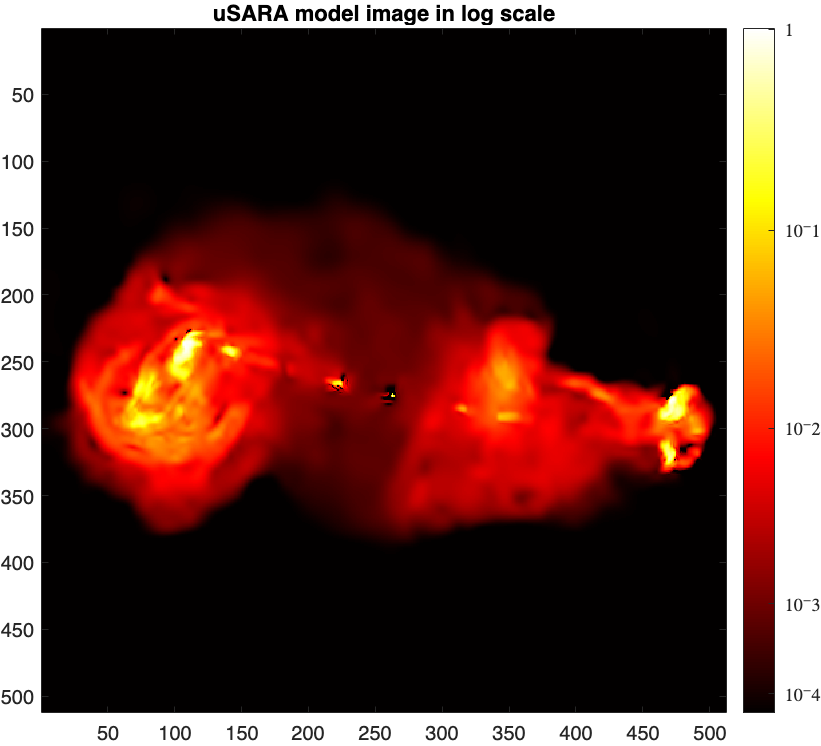
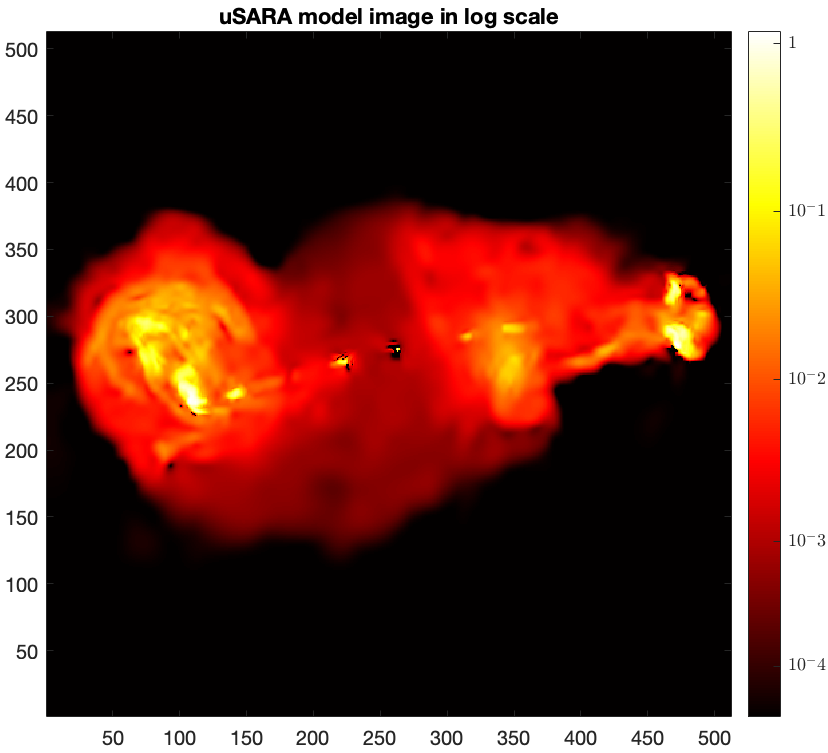
update

diff --git a/uSARA_tutorial.html b/uSARA_tutorial.html
@@ -153,24 +153,29 @@
             \(\boldsymbol{\bar{x}}_{\textrm{max}}=1\) and a dynamic range is approximately \(a=10^4\).
         </p>
 
+    <div class="center-wrapper">
     <div class="code-container">
         <div class="copy-btn" onclick="copyText(this)">
             <img src="images/copy.png" class="copy_logo">
         </div>
         <pre>
-<span class="variable">rlog</span> = @(<span class="variable">x</span>, <span class="variable">a</span>) <span class="function">log10</span>(<span class="variable">a</span> .* <span class="variable">x</span> + <span class="number">1</span>) ./ <span class="function">log10</span>(<span class="variable">a</span>); <span class="comment">% logarithmic mapping parameterised by the dynamic range `a`</span>
-<span class="variable">img_gdth_log</span> = <span class="variable">rlog</span>(<span class="variable">img_gdth</span>, <span class="number">2500</span>); <span class="comment">% `a`=2500 in this case</span>
+<span class="comment">% Define the logarithmic mapping function</span>
+<span class="variable">rlog</span> = <span class="keyword">@</span>(<span class="variable">x</span>, <span class="variable">a</span>) <span class="variable">max</span>(<span class="variable">x</span>(<span class="keyword">:</span>)) .* <span class="function">log10</span>(<span class="variable">a</span> .* <span class="variable">x</span> ./ <span class="variable">max</span>(<span class="variable">x</span>(<span class="keyword">:</span>)) + <span class="number">1</span>) ./ <span class="function">log10</span>(<span class="variable">a</span>); <span class="comment">% logarithmic mapping parameterised by the dynamic range `a`</span>
+<span class="variable">dynamic_range</span> = <span class="number">1e4</span>;
+<span class="variable">img_gdth_log</span> = <span class="variable">rlog</span>(<span class="variable">img_gdth</span>, <span class="variable">dynamic_range</span>);
 <span class="function">figure</span>
 <span class="function">imagesc</span>(<span class="variable">img_gdth_log</span>), <span class="function">colormap</span>(<span class="string">'hot'</span>)
-<span class="function">axis image</span>
+<span class="function">set</span>(<span class="function">gca</span>,<span class="string">'YDir'</span>,<span class="string">'normal'</span>)
+<span class="function">axis</span> <span class="function">image</span>
 <span class="variable">cb</span> = <span class="function">colorbar</span>;
-<span class="variable">ticks</span> = <span class="variable">rlog</span>([<span class="number">1e-4</span>, <span class="number">1e-3</span>, <span class="number">1e-2</span>, <span class="number">1e-1</span>, <span class="number">1.0</span>], <span class="number">2500</span>);
+<span class="variable">ticks</span> = <span class="variable">rlog</span>([<span class="number">1e-4</span>, <span class="number">1e-3</span>, <span class="number">1e-2</span>, <span class="number">1e-1</span>, <span class="number">1.0</span>], <span class="variable">dynamic_range</span>);
 <span class="variable">ticks</span>(<span class="function">end</span>) = <span class="number">1</span>;
 <span class="variable">cb</span>.<span class="variable">Ticks</span> = <span class="variable">ticks</span>;
 <span class="variable">cb</span>.<span class="variable">TickLabels</span> = {<span class="string">"$10^{-4}$"</span>, <span class="string">"$10^{-3}$"</span>, <span class="string">"$10^{-2}$"</span>, <span class="string">"$10^{-1}$"</span>, <span class="string">"$1$"</span>};
 <span class="variable">cb</span>.<span class="variable">TickLabelInterpreter</span> = <span class="string">'latex'</span>;
 <span class="function">title</span>(<span class="string">"Ground truth in log scale"</span>)</pre>
     </div>
+</div>
 
             <div class="tutorial_container">
             <figure class="image-3d">
@@ -329,17 +334,20 @@
                 </ul>
 
 
+    <div class="center-wrapper">
     <div class="code-container">
         <div class="copy-btn" onclick="copyText(this)">
             <img src="images/copy.png" class="copy_logo">
         </div>
         <pre>
 <span class="comment">% visualise both psf and dirty image</span>
-<span class="variable">dirty</span> = <span class="function">fitsread</span>(<span class="string">"./results/3c353/dirty.fits"</span>);
+<span class="variable">dirty</span> <span class="operator">=</span> <span class="function">fitsread</span>(<span class="string">"./results/3c353/dirty.fits"</span>);
 <span class="function">figure</span>
-<span class="function">imagesc</span>(<span class="variable">dirty</span>), <span class="function">axis square</span>
+<span class="function">imagesc</span>(<span class="variable">dirty</span>), <span class="function">axis</span> <span class="function">square</span>
+<span class="function">set</span>(<span class="function">gca</span>,<span class="string">'YDir'</span>,<span class="string">'normal'</span>)
 <span class="function">colormap</span>(<span class="string">'hot'</span>), <span class="function">title</span>(<span class="string">"dirty image"</span>)</pre>
     </div>
+</div>
 
 
             <div class="tutorial_container">
@@ -350,17 +358,20 @@
 
 
 
+    <div class="center-wrapper">
     <div class="code-container">
         <div class="copy-btn" onclick="copyText(this)">
             <img src="images/copy.png" class="copy_logo">
         </div>
         <pre>
-<span class="variable">psf</span> = <span class="function">fitsread</span>(<span class="string">"./results/3c353/psf.fits"</span>);
+<span class="variable">psf</span> <span class="operator">=</span> <span class="function">fitsread</span>(<span class="string">"./results/3c353/psf.fits"</span>);
 <span class="function">figure</span>
-<span class="function">imagesc</span>(<span class="variable">psf</span>), <span class="function">axis square</span>,
-<span class="function">colormap</span>(<span class="string">'hot'</span>), <span class="function">title</span>(<span class="string">"psf"</span>)
-        </pre>
+<span class="function">imagesc</span>(<span class="variable">psf</span>), <span class="function">axis</span> <span class="function">square</span>
+<span class="function">set</span>(<span class="function">gca</span>,<span class="string">'YDir'</span>,<span class="string">'normal'</span>)
+<span class="function">colormap</span>(<span class="string">'hot'</span>)
+<span class="function">title</span>(<span class="string">"point spread function"</span>)</pre>
     </div>
+</div>
 
 
             <div class="tutorial_container">
@@ -412,7 +423,7 @@
             </p>
 
             <p>
-                Note that in [3], we considered a slightly different mapping of the logarithmic scale that is parameterised by the maximum intensity value \(\bar{x}_{\text{max}}\)
+                Note that in [4], we considered a slightly different mapping of the logarithmic scale that is parameterised by the maximum intensity value \(\bar{x}_{\text{max}}\)
                 of the ground truth and the estimate of the target dynamic range defined as \(\hat{a}=\frac{1}{\sigma},\) such that:
 \(\text{r}\log(\boldsymbol{x}) = \bar{x}_{\text{max}} \log_{\hat{a}} \left( \frac{\hat{a}}{\bar{x}_{\text{max}}} \cdot \boldsymbol{x} + 1 \right),\)
             </p>
@@ -432,31 +443,33 @@ airi_logsnr2 = <span class="function">snr_rec</span>(<span class="function">rlog
     </div>
 </div>
             <p>
-                Reconstruction metrics: logSNR2 23.381 dB
+                Reconstruction metrics: logSNR2 21.253 dB
             </p>
 
             <p>
                 Next, we'll visualise the reconstructed image.
             </p>
 
+    <div class="center-wrapper">
     <div class="code-container">
         <div class="copy-btn" onclick="copyText(this)">
             <img src="images/copy.png" class="copy_logo">
         </div>
         <pre>
-<span class="comment">% visualise reconstructed images</span>
+% visualise reconstructed images
 <span class="function">figure</span>
-<span class="function">imagesc</span>(<span class="function">rlog</span>(<span class="variable">model</span>, <span class="number">2500</span>)),
-<span class="function">axis image</span>, <span class="function">colormap</span>(<span class="string">'hot'</span>)
-<span class="variable">cb</span> = <span class="function">colorbar</span>;
-<span class="variable">ticks</span> = <span class="function">rlog</span>([<span class="number">1e-4</span>, <span class="number">1e-3</span>, <span class="number">1e-2</span>, <span class="number">1e-1</span>, <span class="number">1.0</span>], <span class="number">2500</span>);
-<span class="variable">ticks</span>(<span class="function">end</span>) = <span class="number">1</span>;
-<span class="variable">cb.Ticks</span> = <span class="variable">ticks</span>;
-<span class="variable">cb.TickLabels</span> = {<span class="string">"$10^{-4}$"</span>, <span class="string">"$10^{-3}$"</span>, <span class="string">"$10^{-2}$"</span>, <span class="string">"$10^{-1}$"</span>, <span class="string">"$1$"</span>};
-<span class="variable">cb.TickLabelInterpreter</span> = <span class="string">'latex'</span>;
-<span class="function">title</span>(<span class="string">"uSARA model image in log scale"</span>)
-        </pre>
+<span class="function">imagesc</span>(<span class="function">rlog</span>(<span class="variable">model</span>, <span class="variable">dynamic_range</span>))
+<span class="function">set</span>(<span class="function">gca</span>,<span class="string">'YDir'</span>,<span class="string">'normal'</span>)
+<span class="function">axis</span> <span class="function">image</span>, <span class="function">colormap</span>(<span class="string">'hot'</span>)
+<span class="variable">cb</span> <span class="operator">=</span> <span class="function">colorbar</span>;
+<span class="variable">ticks</span> <span class="operator">=</span> <span class="function">rlog</span>([<span class="number">1e-4</span>, <span class="number">1e-3</span>, <span class="number">1e-2</span>, <span class="number">1e-1</span>, <span class="number">1.0</span>], <span class="variable">dynamic_range</span>);
+<span class="variable">ticks</span>(<span class="function">end</span>) <span class="operator">=</span> <span class="number">1</span>;
+<span class="variable">cb</span>.<span class="variable">Ticks</span> <span class="operator">=</span> <span class="variable">ticks</span>;
+<span class="variable">cb</span>.<span class="variable">TickLabels</span> <span class="operator">=</span> {<span class="string">"$10^-4$"</span>, <span class="string">"$10^-3$"</span>, <span class="string">"$10^-2$"</span>, <span class="string">"$10^-1$"</span>, <span class="string">"$1$"</span>};
+<span class="variable">cb</span>.<span class="variable">TickLabelInterpreter</span> <span class="operator">=</span> <span class="string">'latex'</span>;
+<span class="function">title</span>(<span class="string">"uSARA model image in log scale"</span>)</pre>
     </div>
+</div>
 
 
 
@@ -468,18 +481,21 @@ airi_logsnr2 = <span class="function">snr_rec</span>(<span class="function">rlog
 
 
 
+    <div class="center-wrapper">
     <div class="code-container">
         <div class="copy-btn" onclick="copyText(this)">
             <img src="images/copy.png" class="copy_logo">
         </div>
         <pre>
-<span class="variable">residual</span> = <span class="function">fitsread</span>(<span class="string">"./results/3c353/uSARA_heuRegScale_1_runID_0_normalised_residual_dirty_image.fits"</span>);
+<span class="comment">% Load the AIRI residual dirty image</span>
+<span class="variable">residual</span> = <span class="function">fitsread</span>(<span class="string">"./results/3c353/AIRI_heuScale_1_runID_0_normalised_residual_dirty_image.fits"</span>);
 <span class="function">figure</span>
-<span class="function">imagesc</span>(<span class="variable">residual</span>), <span class="function">axis image</span>,
-<span class="function">colorbar</span>, <span class="function">colormap</span>(<span class="string">'hot'</span>),
-<span class="function">title</span>(<span class="string">"uSARA residual dirty image in linear scale"</span>)
-        </pre>
+<span class="function">imagesc</span>(<span class="variable">residual</span>), <span class="function">axis</span> <span class="function">image</span>
+<span class="function">set</span>(<span class="function">gca</span>,<span class="string">'YDir'</span>,<span class="string">'normal'</span>)
+<span class="function">colorbar</span>, <span class="function">colormap</span>(<span class="string">'hot'</span>)
+<span class="function">title</span>(<span class="string">"uSARA residual dirty in linear scale"</span>)</pre>
     </div>
+</div>
 
 
 

diff --git a/AIRI_tutorial.html b/AIRI_tutorial.html
@@ -525,8 +525,7 @@ airi_logsnr2 = <span class="function">snr_rec</span>(<span class="function">rlog
 <span class="variable">cb</span>.<span class="variable">Ticks</span> <span class="operator">=</span> <span class="variable">ticks</span>;
 <span class="variable">cb</span>.<span class="variable">TickLabels</span> <span class="operator">=</span> {<span class="string">"$10^-4$"</span>, <span class="string">"$10^-3$"</span>, <span class="string">"$10^-2$"</span>, <span class="string">"$10^-1$"</span>, <span class="string">"$1$"</span>};
 <span class="variable">cb</span>.<span class="variable">TickLabelInterpreter</span> <span class="operator">=</span> <span class="string">'latex'</span>;
-<span class="function">title</span>(<span class="string">"AIRI model image in log scale"</span>)
-        </pre>
+<span class="function">title</span>(<span class="string">"AIRI model image in log scale"</span>)</pre>
     </div>
 </div>
 
